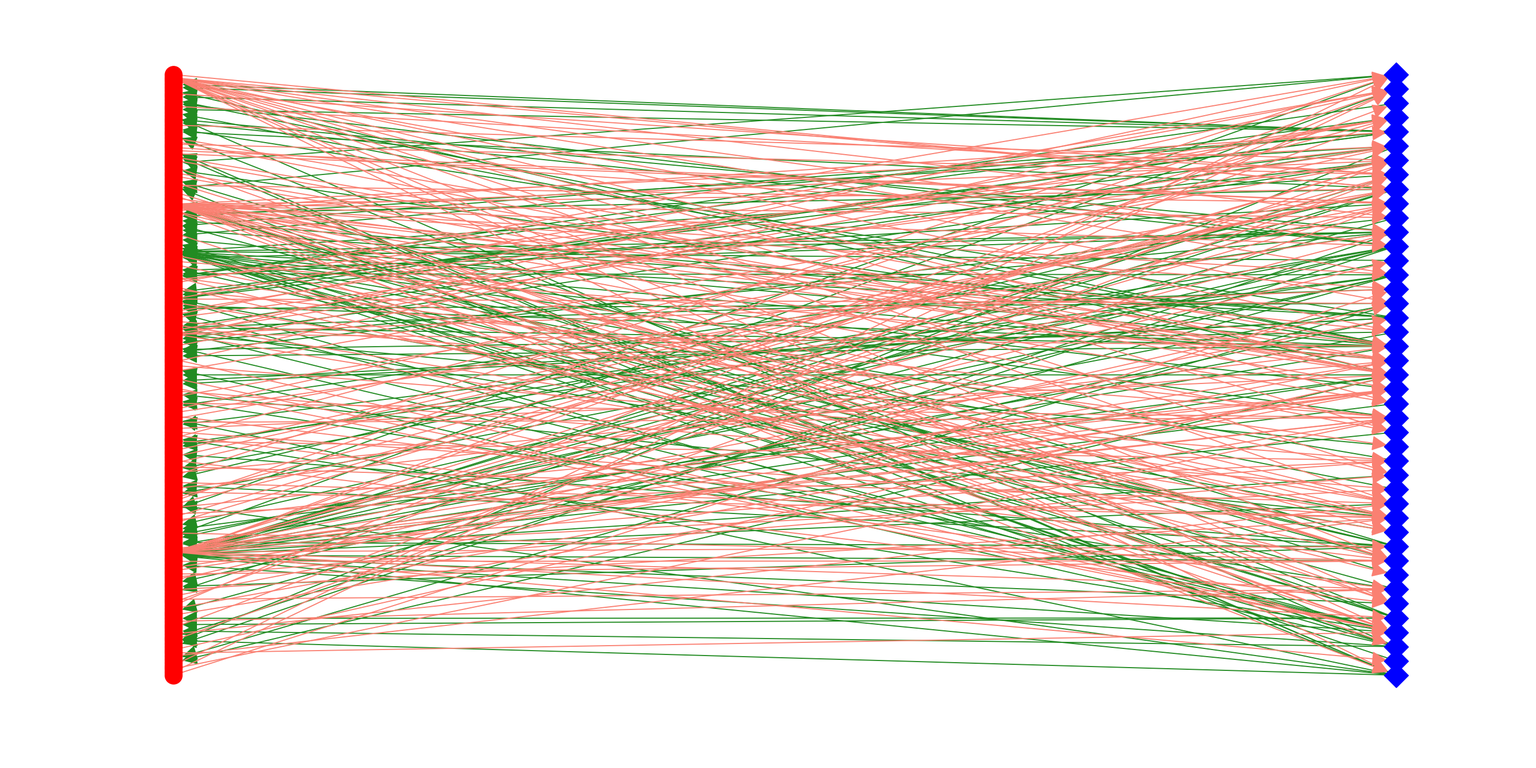
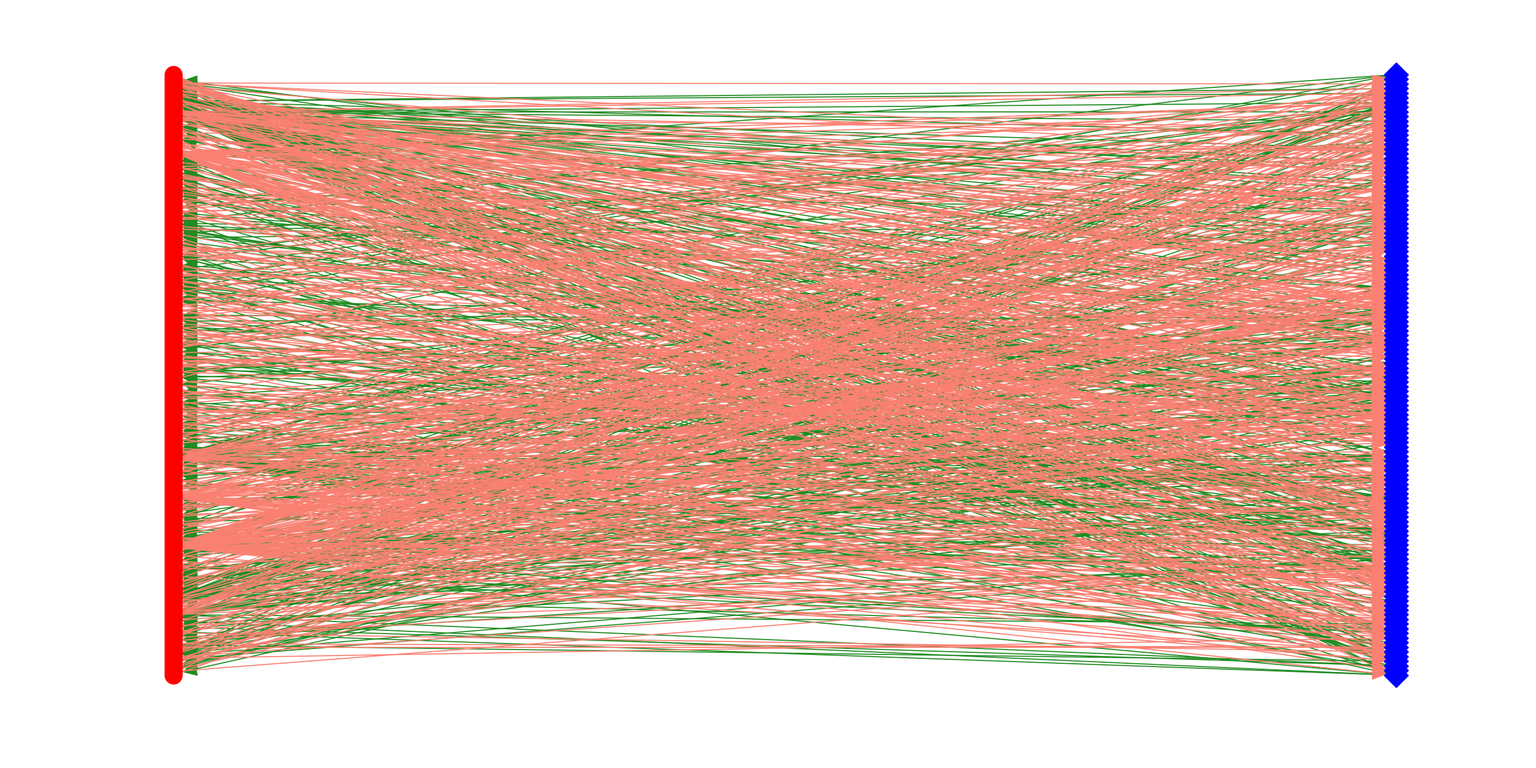
Added py script for Marcel

diff --git a/model/MarcelExperiments.py b/model/MarcelExperiments.py
@@ -11,15 +11,57 @@ import numpy as np
 
 # TODO here you can select with what kind of data you are going to work: Simulated or Real one
 MODE = "SimulatedData"
+
+
 # MODE = "RealData"
+
+def bData():
+    df = pd.read_csv("../data/b_processes2.csv", ";")
+    df.date = pd.to_datetime(df.date)
+    # only a single year
+    print("size")
+    print(df.shape)
+    df = df.loc[df.date > '2015-01-01', :]
+    print("single year")
+    print(df.shape)
+    df.amount = df.amount.apply(lambda x: x.replace(",", "."))
+    df.amount = df.amount.astype(float)
+    df = df[["transactionID", "accountID", "BR", "amount", "type"]]
+    return df
+
 
 if __name__ == '__main__':
     print("Welcome to NetEmbs application!")
     MAIN_LOGGER = log_me()
     MAIN_LOGGER.info("Started..")
     if MODE == "SimulatedData":
-        d = upload_data("../Simulation/FSN_Data.db", limit=300)
+        d = upload_data("../Simulation/FSN_Data.db", limit=1000)
         d = prepare_data(d)
 
-#     Save visualisation of current FSN
-    plotFSN(d, edge_labels=False, node_labels=False, title="MarcelExperiment")
+    if MODE == "RealData":
+        # //////// UPLOAD your data HERE \\\\\\\\\\
+        d = bData()
+        # //////// END  \\\\\\\\\\
+        d = rename_columns(d,
+                           names={"transactionID": "ID", "accountID": "FA_Name", "BR": "GroundTruth",
+                                  "amount": "Value"})
+        d = prepare_dataMarcel(d)
+    # Now we should have good and clean dataset
+    # let's check it
+    countDirtyData(d, ["Debit", "Credit"])
+    # Save visualisation of current FSN
+    plotFSN(d, edge_labels=False, node_labels=False, title="Marcel/FSN_Vis")
+
+    # ///////// Getting embeddings \\\\\\\\\\\\
+    embds = get_embs_TF(d, embed_size=6, walks_per_node=50, num_steps=10000)
+    # //////// Merge with GroundTruth \\\\\\\\\
+    if MODE == "SimulatedData":
+        d = add_ground_truth(embds)
+    if MODE == "RealData":
+        d = embds.merge(d.groupby("ID", as_index=False).agg({"GroundTruth": "first"}), on="ID")
+    d.to_pickle("tmp_dataMarcel.pkl")
+    #     ////////// Clustering in embedding space \\\\\\\
+    cl_labs = cl_Agglomerative(d, 9)
+    #     ////////// Plotting tSNE graphs with ground truth vs. labeled \\\\\\\
+    plot_tSNE(cl_labs, legend_title="FA_Name", title="Marcel/GroundTruth")
+    plot_tSNE(cl_labs, legend_title="label", title="Marcel/AgglomerativeCl")

diff --git a/NetEmbs/Vis/plots.py b/NetEmbs/Vis/plots.py
@@ -148,5 +148,8 @@ def plot_tSNE(fsn_embs, title="tSNE", legend_title="GroundTruth", rand_state=1):
 
     if title is not None and isinstance(title, str):
         plt.tight_layout()
-        plt.savefig("img/" + title, dpi=140, pad_inches=0.01)
-    plt.show()
+        try:
+            plt.savefig("img/" + title, dpi=140, pad_inches=0.01)
+        except FileNotFoundError:
+            plt.savefig("../img/" + title, dpi=140, pad_inches=0.01)
+    # plt.show()
